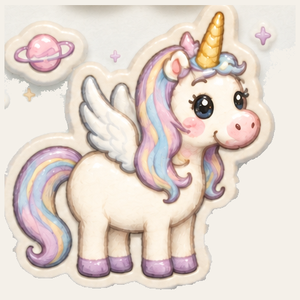
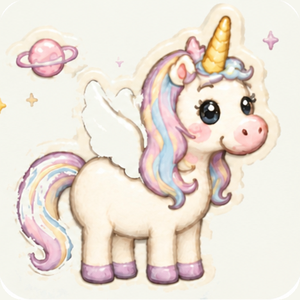
ハムスターとユニコーンの絵をMAさんの画像に差しかえ
Claude-Session: https://claude.ai/code/session_01UiPSEeKjJp5R7PsVpchTGp

diff --git a/sw.js b/sw.js
@@ -1,6 +1,6 @@
 // 漢字なかまたち：オフラインでも遊べるようにするしくみ
 // ゲームを直したら VERSION を上げると、つぎに開いたとき新しい版に入れかわります
-const VERSION = "nakama-v12";
+const VERSION = "nakama-v13";
 const CORE = ["./", "./index.html", "./manifest.webmanifest", "./icon-192.png", "./icon-512.png", "./icon-maskable-512.png", "./apple-touch-icon.png", "./chara-pirate.png", "./chara-dragon.png", "./chara-hamster.png", "./chara-unicorn.png", "./pirate-10.html", "./pirate-9.html", "./pirate-5.html", "./dragon-9.html", "./dragon-5.html", "./hamster-10.html", "./hamster-9.html", "./hamster-5.html", "./unicorn-10.html", "./unicorn-9.html", "./unicorn-5.html"];
 
 self.addEventListener("install", e => {
